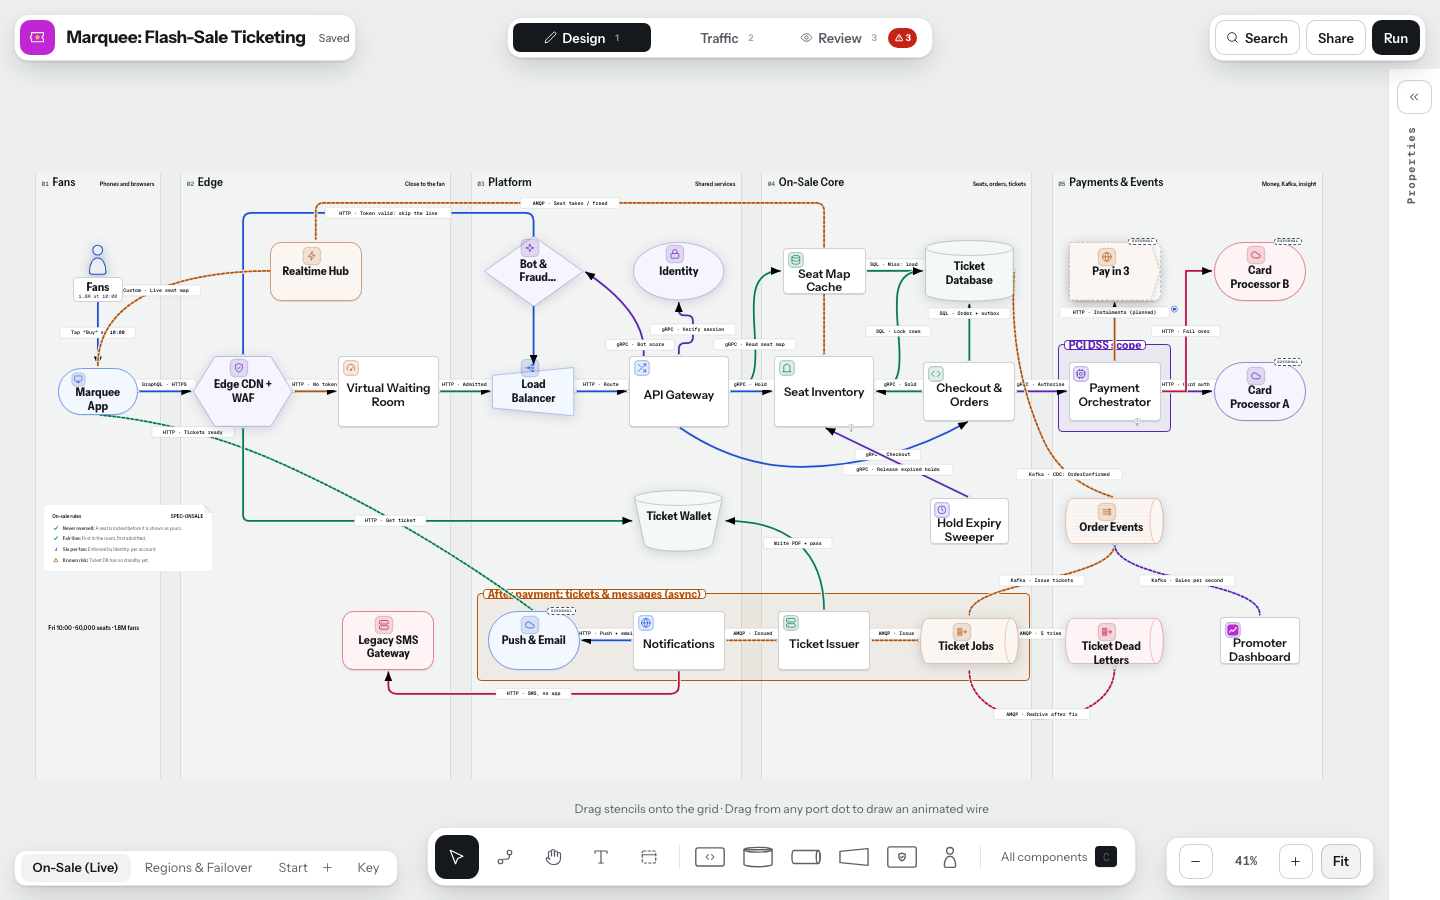
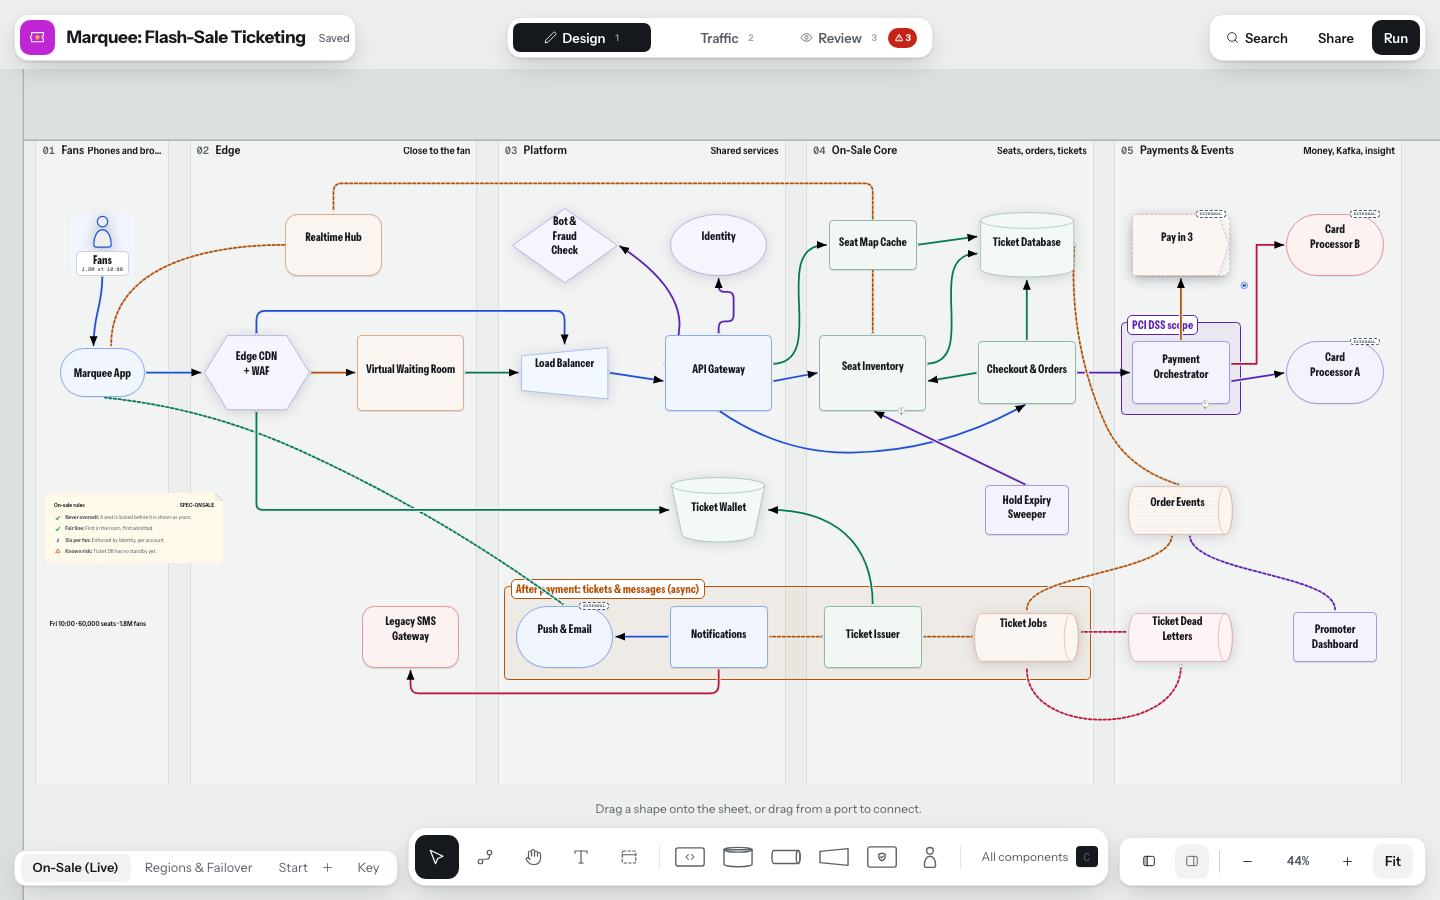
docs: README covers 3.1 callouts and recent changes; fresh pictures, old Lumen Relay GIFs removed

diff --git a/README.md b/README.md
@@ -2,14 +2,16 @@
 
 **ConduitCraft** is an open-source architecture diagramming studio with animated traffic and scenarios. The idea is three steps: **draw it, run it, ship it.** Draw a system on a blank canvas, or import a Mermaid flowchart. Run it, by watching requests travel and failing a component to see what breaks. Ship it as a self-contained page, a picture or a GIF.
 
-![The Traffic lens on the Marquee showcase: a degraded component, with the summary of what is unreachable or rerouted](docs/images/traffic-failure.png)
+![The Traffic lens on the Marquee showcase: Ticket Database has failed, and the summary counts what is unreachable, rerouted or at risk](docs/images/traffic-failure.png)
 
 ## Draw it, run it, ship it
 
 ### Draw it
-The **Design** lens is a blank drafting canvas. Pick components from the tray, drag between ports to wire them, and group them in swimlanes and frames. Open a component to see the diagram one level deeper.
+The **Design** lens is a blank drafting canvas. Pick components from the tray, drag between ports to wire them, and group them in swimlanes and frames. Open a component to see the diagram one level deeper. Pin a **callout** to a component for what the diagram needs to say about it, such as a maintenance window or an access cut-off.
 
 ![The Design lens](docs/images/design-canvas.png)
+
+![A Time callout on the Payment Orchestrator, pointing at its component](docs/images/design-callout.png)
 
 ### Run it
 The **Traffic** lens sends glowing beads down every wire and plays scenarios step by step. A wire's latency sets its pace, so fast and slow paths look clearly different. Select a component and press `X` to fail it: wires that can no longer carry traffic go grey and still, and the summary says how many components are unreachable, rerouted, delayed or slowed. The **Review** lens lists single points of failure, cycles, orphans and risky patterns, and each one jumps to its target. **Present** (`4`) shows the diagram on its own.
@@ -17,33 +19,26 @@ The **Traffic** lens sends glowing beads down every wire and plays scenarios ste
 ![The Review lens](docs/images/review-lens.png)
 
 ### Ship it
-Export a self-contained interactive HTML page, SVG or PNG pictures, a looping GIF, or a Blueprint file that keeps the whole document. Pictures carry a title block, and every SVG and HTML export carries a text description. **Share** copies a link that holds the whole diagram.
+Export a self-contained interactive HTML page, SVG or PNG pictures, a looping GIF, or a Blueprint file that keeps the whole document. Exports keep the diagram style, the studio's fonts and the front-to-back order. Pictures carry a title block (title, tag, status, page and date) that the export dialog can turn off, and every SVG and HTML export carries a text description. **Share** copies a link that holds the whole diagram.
 
-## Exported previews
+The GIF below was recorded with the studio's own GIF export, with Ticket Database failed.
 
-The GIF below was recorded with the studio's own GIF export, with one component failed.
-
-![A failure run: Relay Bus has failed, and the components behind it are unreachable or rerouted](docs/images/lumen-relay-failure.gif)
-
-More exports of the Lumen Relay example:
-
-![Whole architecture](docs/images/lumen-relay_whole.gif)
-
-![A scenario run](docs/images/lumen-relay-clear-night_scenario.gif)
-
-![A zoomed-in view](docs/images/lumen-relay-zoomed-view.gif)
+![A failure run exported as a GIF: Ticket Database has failed, and the components behind it are unreachable or rerouted](docs/images/traffic-failure.gif)
 
 ## Highlights
 
 - **Design lens: draw on a blank sheet**
   - 14 component stencils from the tray: **Actor**, **Core System**, **Service / API**, **Message Queue**, **Load Balancer**, **Cache**, **Rate Limiter**, **Scheduler**, **Stream / Log**, **Event Broker**, **Control Gate**, **Data Store**, **Object Storage** and **External Client**, plus swimlanes, frames, text and note cards. Any component can be marked as run by someone else.
+  - **Callouts**: speech-bubble notes attached to one component (Info, Warning or Time), added from its right-click menu, the command palette or its Notes tab. A callout points at its component, moves, copies and deletes with it, and shows in PNG, GIF, canvas SVG and HTML exports.
+  - Notes take a width (drag the right edge) and grow with their text; text labels take a width, a font size and a colour. Components, notes and text share one front-to-back order, so Bring to Front can put a note over a component.
   - Drag between ports to wire, or drag from a port into empty space and pick from a strip of likely kinds. Nine routing styles per wire (Smart, Straight, S-curve, Arc, Vertical Fan-out, Rounded Elbow, Sharp Step, Under U-Loop, Over U-Loop), draggable waypoints, and wires that keep clear of components and of each other's ports.
   - Several diagrams in one file as **pages**, **nested levels** you open with `Cmd/Ctrl+Enter`, and **frames** that own the components inside them.
   - The inspector is a floating properties card with Look, Behaviour and Notes. Find and replace, bulk edit, smart guides, auto-layout (including a layered ELK layout) and a live code pane (`Cmd/Ctrl+/`) that shows the Blueprint file beside the canvas.
-  - Hide the left or right panel in any lens with `{` and `}`; the choice is remembered. Diagrams autosave to the browser, with a library on the Home screen, templates and snapshots.
+  - A dragged component snaps to the centre of its swimlane. Zoomed out to Fit, names condense onto a few lines and wire labels appear on hover or selection, so a large diagram still reads.
+  - Hide the left or right panel in any lens with `{` and `}`; the choice is remembered. Below 56 rem the inspector and tray become bottom sheets. Diagrams autosave to the browser, with a library on the Home screen, templates and snapshots.
   - Four diagram styles: Studio, Blueprint, Print and Sketch, in light (Vellum) and dark (Graphite).
 - **Traffic lens: run it**
-  - Beads flow down every animated wire, at a pace set by its latency, and scenarios play as packets with a trace.
+  - Beads flow down every animated wire, at a pace set by its latency (0.25x to 4x), and scenarios play as packets with a trace. Leaving Traffic stops the run and clears its highlights.
   - Fail a component (`X`) and the reachability model shows what is unreachable, rerouted, delayed or slowed. Queues buffer and drain, load balancers shift to a live target, caches report hits and misses, rate limiters reject with `429`, and schedulers start work on a timer.
 - **Review lens: find the weak spots**
   - Single points of failure, cycles, orphans, queues without a dead-letter queue, caches with no store behind them, synchronous calls into external services, and more. Each finding is circled on the canvas and jumps to its target.
@@ -56,6 +51,8 @@ More exports of the Lumen Relay example:
   - `pnpm conduitcraft render`, `check`, `diff` and `drift` work on Blueprint files, JSON and Mermaid with no browser. The [GitHub Action](./action.yml) checks and renders the diagrams in a repository and comments on pull requests with what changed.
 
 ## Documentation
+
+The [release notes](./RELEASE_NOTES.md) list what changed in each version; the current one is 3.1.0.
 
 The [guide](./docs/guide.md) is the Blueprint YAML schema, the wire routing modes, and the keyboard shortcuts.
 
